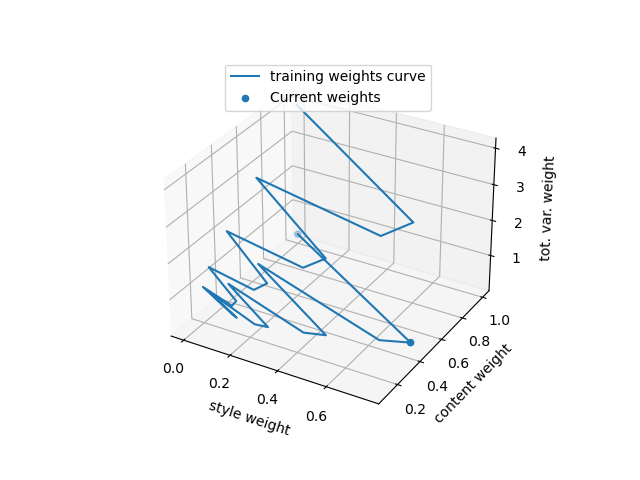
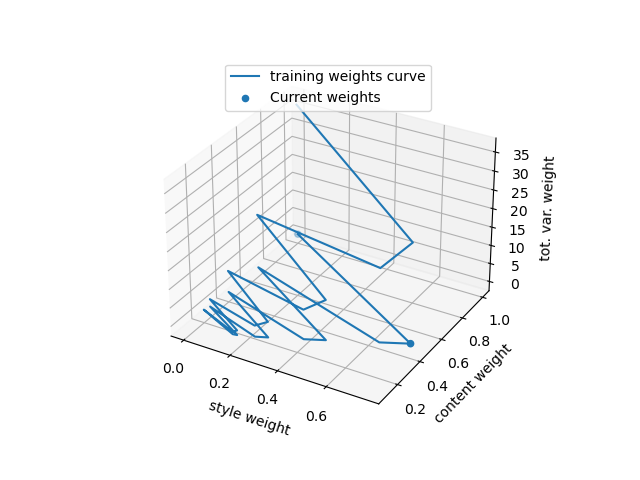
new

diff --git a/create_gif_params_inputs.py b/create_gif_params_inputs.py
@@ -9,9 +9,9 @@ from PIL import Image
 
 
 def convert_parametric(x, y, z):
-    sw_l = [abs(s/4) for s in x]
-    cw_l = [abs(s/4) for s in y]
-    tvw_l = [2**s for s in z]
+    sw_l = [abs(s/5) for s in x]
+    cw_l = [abs(s/5) for s in y]
+    tvw_l = [6**s for s in z]
     return sw_l, cw_l, tvw_l
 
 # Prepare inputs
